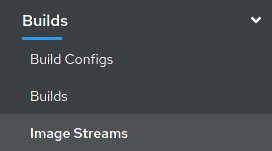
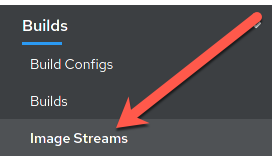
fixes as suggested by workshop testers (you know who you are!)

diff --git a/content/workshops/openshift_4_101/lab4-devmanage.md b/content/workshops/openshift_4_101/lab4-devmanage.md
@@ -24,7 +24,7 @@ $ oc expose service dc-metro-map
 ```
 
 ## See the app in action and inspect some details
-There is no more ambiguity or confusion about where the app came from.  OpenShift provides traceability for your running deployment back to the docker image and the registry it came from, as well as (for images built by OpenShift) back to the exact source code branch and commit.  Let's take a look at that.
+Unlike in previous versions of OpenShift, there is no more ambiguity or confusion about where the app came from.  OpenShift provides traceability for your running deployment, back to the container image, and the registry that it came from. Additionally, images built by OpenShift are traceable back to the exact [branch](https://help.github.com/en/github/collaborating-with-issues-and-pull-requests/about-branches) and [commit](https://help.github.com/en/github/getting-started-with-github/github-glossary#commit). Let's take a look at that!
 
 {{< panel_group >}}
 {{% panel "CLI Steps" %}}
@@ -37,7 +37,7 @@ There is no more ambiguity or confusion about where the app came from.  OpenShif
 $ oc status
 ```
 
-This is going to show the status of your current project.  In this case it will show the dc-metro-map service (svc) with a nested deployment config (dc) along with some more info that you can ignore for now.  
+This is going to show the status of your current project.  In this case it will show the dc-metro-map service (svc) with a nested deployment config(also called a "DC") along with some more info that you can ignore for now.  
 
 <blockquote>
 <i class="fa fa-info-circle"></i>  A deployment in OpenShift is a replication controller based on a user defined template called a deployment configuration <br/>
@@ -50,14 +50,21 @@ The dc provides us details we care about to see where our application image come
 </blockquote>
 
 ```bash
-$ oc describe deployment/dc-metro-map
+$ oc describe deploymentconfig/dc-metro-map
 ```
 
 Notice under the template section it lists the containers it wants to deploy along with the path to the container image.
 
 <blockquote>
-<i class="fa fa-info-circle"></i> There are a few other ways you could get to this information.  If you are feeling adventurous, you might want to describe the replication controller (oc describe rc -l app=dc-metro-map), the image stream (oc describe is -l app=dc-metro-map) or the running pod itself (oc describe pod -l app=dc-metro-map).
+<i class="fa fa-info-circle"></i> There are a few other ways you could get to this information.  If you are feeling adventurous, you might also want to try to:
 </blockquote>
+
+- describe the replication controller
+    - ```oc describe rc -l app=dc-metro-map```
+- describe the image stream
+    - ```oc describe is -l app=dc-metro-map```
+- describe the running pods
+    - ```oc describe pod```
 
 Because we built this app using S2I, we get to see the details about the build - including the container image that was used for building the source code.  So let's find out where the image came from.  Here are the steps to get more information about the build configuration (bc) and the builds themselves.
 
@@ -78,7 +85,9 @@ Notice the information about the configuration of how this app gets built.  In p
 $ oc describe build/dc-metro-map-1
 ```
 
-This shows us even more about the deployed container's build and source code including exact commit GUID for this build.  We can also can see the commit's author, and the commit message.  You can inspect the code by opening a web browser and pointing it to: https://github.com/RedHatGov/openshift-workshops/commit/[COMMIT_GUID]
+This shows us even more about the deployed container's build and source code, including exact commit information, for this build.  We can also see the commit's author, and the commit message.  You can inspect the code by opening a web browser and pointing it to a specific commit, like this:
+
+https://github.com/RedHatGov/redhatgov.github.io/commit/2d5078cc5bbdf3cf63c5ab15e1628f30b3c89954
 
 {{% /panel %}}
 
@@ -90,12 +99,12 @@ Change modes to "Administrator", and then click on "Workloads", and "Deployment 
 <img src="../images/ocp-lab-devman-dc.png" width="500"><br/>
 
 <blockquote>
-Click on "dc-metro-map", under "Name", and check out the details within the deployment (above and to the right of the Pods circle). 
+Click on "dc-metro-map", under "Name", and check out the details of the deployment
 </blockquote>
 <img src="../images/ocp-lab-devman-deployment-shortcut.png" width="700"><br/>
 
 <blockquote>
-Within the deployment for the dc-metro-map is a container summary that shows both the GUID for the image and the GUID for the git branch.
+Within the deployment for the dc-metro-map is a container summary that shows the detailed registry, container reference, and hash information, for the container that was deployed.
 </blockquote>
 <img src="../images/ocp-lab-devman-imageGuid.png" width="600"><br/>
 
@@ -117,6 +126,7 @@ You should see something like what is shown, below.
 <blockquote>
 Click "Builds" and then "Builds", in the left-side menu, to get back to the build summary
 </blockquote>
+<img src="../images/ocp-builds-builds.png" width="300"><br/>
 
 <blockquote>
 Click "dc-metro-map-1" to see the build details
@@ -126,7 +136,7 @@ Click "dc-metro-map-1" to see the build details
 <blockquote>
 Because we built this app using S2I, we get to see the details about the build - including the container image that was used for building the source code.  Note that you can kick-off a rebuild here if something went wrong with the initial build and you'd like to attempt it again.<br/>
 <br/>
-Notice that, in the "Git Commit" section, you can see the comment from the last commit when the build was started.  And you can see the that commit's author.  You can click that commit GUID to be taken to the exact version of the source code that is in this deployed application.
+Notice that, in the "Git Commit" section, you can see the comment from the last commit when the build was started, and you can see the that commit's author.
 </blockquote>
 <img src="../images/ocp-lab-devman-commitmsg.png" width="400"><br/>
 
@@ -202,27 +212,27 @@ Whether it's a database name or a configuration variable, most applications make
 {{< panel_group >}}
 {{% panel "CLI Steps" %}}
 
-Let's have a little fun.  The app has some easter eggs that get triggered when certain env vars are set to 'true'.
+Let's have a little fun.  The app has some easter eggs that get triggered when certain environment variables are set to 'true'.
 <blockquote>
 <i class="fa fa-terminal"></i> Goto the terminal and type the following:
 </blockquote>
 
 ```bash
-$ oc set env deployment/dc-metro-map -e BEERME=true
+$ oc set env deploymentconfig/dc-metro-map -e BEERME=true
 ```
 
 ```bash
 $ oc get pods -w
 ```
 
-Due to the deployment config strategy being set to "Rolling" and the "ConfigChange" trigger being set, OpenShift auto deployed a new pod as soon as you updated with the env variable.  If you were quick enough you saw this happening with the get pods command
+Due to the deployment config strategy being set to "Rolling" and the "ConfigChange" trigger being set, OpenShift auto deployed a new pod as soon as you updated the environment variable.  If you were quick enough, you might have seen this happening, with the "oc get pods -w" command
 
 <blockquote>
 <i class="fa fa-terminal"></i> Type Ctrl+C to stop watching the pods
 </blockquote>
 
 <blockquote>
-<i class="fa fa-info-circle"></i> You can set env variables across all deployment configs with 'dc --all' instead of specifying a specifc config
+<i class="fa fa-info-circle"></i> You can set environment variables, across all deployment configurations, with 'dc --all', instead of specifying a specific DC.
 </blockquote>
 
 {{% /panel %}}
@@ -237,7 +247,6 @@ This is going to show basic details for all build configurations in this project
 <blockquote>
 Click the "dc-metro-map" build config.
 </blockquote>
-There are a lot of details here, feel free to check them out and ask questions, but we are here to set some new environment variables.  
 
 <blockquote>
 Click the "Environment" tab next to the "Builds" tab .
@@ -260,7 +269,7 @@ Click "Save".  Next, kick off a new build, by selecting "Start Build", from the 
 <blockquote>
 Click "Workloads", and then "Pods", from the left-side menu.
 <br/>
-If you are quick enough, you will see a new pod spin up and an the old pod spin down.  This is due to the deployment config strategy being set to "Rolling" and having a "ConfigChange" trigger, OpenShift auto deployed a new pod as soon as you updated with the env variable.
+If you are quick enough, you will see a new pod spin up, and the old pod spin down.  This is due to the deployment config strategy being set to "Rolling", and having a "ConfigChange" trigger. Thus, OpenShift auto deployed a new pod as soon as you updated with the environment variable.
 </blockquote>
 <img src="../images/ocp-lab-devman-BuildRunning.png" width="600">
 
@@ -277,7 +286,7 @@ Environment variables are great, but sometimes we don't want sensitive data expo
 
 
 ## Getting into a pod
-There are situations when you might want to jump into a running pod, and OpenShift lets you do that pretty easily.  We set some environment variables and secrets in this lab, let's jump onto our pod to inspect them.  
+There are situations when you might want to jump into a running pod, and OpenShift lets you do that pretty easily.  We set some environment variables, in this lab, so let's jump onto our pod to inspect them.  
 
 {{< panel_group >}}
 {{% panel "CLI Steps" %}}
@@ -324,12 +333,17 @@ Click the pod that starts with "dc-metro-map-" and has a status of Running
 Click the "Terminal" button
 </blockquote>
 <img src="../images/ocp-lab-devman-terminal.png" width="600"><br/>
-Let's look for the environment variables we set:
+
+## Let's look for the environment variables we set
 
 <blockquote>
-Inside the web page's terminal type: 'env | grep BEER'
+Inside the web page's terminal type this:
 </blockquote>
-That should return the **BEERME=true** matching the value that we set in the deployment config.
+```bash
+$ env | grep BEER
+```
+
+That should return **BEERME=true**, matching the value that we set in the deployment config.
 
 {{% /panel %}}
 {{< /panel_group >}}
@@ -345,7 +359,7 @@ $ oc delete secrets dc-metro-map-generic-webhook-secret dc-metro-map-github-webh
 # Summary
 In this lab you've seen how to trace running software back to its roots, how to see details on the pods running your software, how to update deployment configurations, how to inspect logs files, how to set environment variables consistently across your environment, and how to interactively attach to running containers.  All these things should come in handy for any developer working in an OpenShift platform.
 
-To dig deeper in to details behind the steps you performed in this lab, check out the OpenShift [developer's guide][1].
+To dig deeper into the details behind the steps you performed in this lab, check out the OpenShift [developer's guide][1].
 
 [1]: https://docs.openshift.com/container-platform/3.4/dev_guide/index.html
 

diff --git a/content/workshops/openshift_4_101/lab1-welcome.md b/content/workshops/openshift_4_101/lab1-welcome.md
@@ -13,6 +13,7 @@ We will be using the following terms throughout the workshop labs so here are so
 
 * Container - Your software wrapped in a complete filesystem containing everything it needs to run
 * Image - We are talking about docker images; read-only and used to create containers
+* Image Stream - An image stream comprises one or more Docker images identified by tags. 
 * Pod - One or more docker containers that run together
 * Service - Provides a common DNS name to access a pod (or replicated set of pods)
 * Project - A project is a group of services that are related logically
@@ -24,7 +25,7 @@ We will be using the following terms throughout the workshop labs so here are so
 * Node - Where the compute happens, your software is run on nodes
 
 # Accessing OpenShift
-Additionally, you can utilize a command line tool to perfrom tasks.
+Additionally, you can utilize a command line tool to perforrm tasks.
 
 ## Let's try the command line (CLI)
 > <i class="fa fa-terminal"></i> Use your existing Butterfly terminal, and login, using the same URI with following command:

diff --git a/content/workshops/openshift_4_101/lab2-byocontainer.md b/content/workshops/openshift_4_101/lab2-byocontainer.md
@@ -156,7 +156,7 @@ You should see something similar to this:
 
 ## Test out the nexus webapp
 
-Change the context menu (the menu, in the top left, that contains "Administrator" and "Developer" back to "Developer", and click on the arrow, at the top right of the "nexus" tumbnail, to open the webapp's route.
+Change the context menu (the menu, in the top left, that contains "Administrator" and "Developer" back to "Developer", and click on the arrow, at the top right of the "nexus" thumbnail, to open the webapp's route.
 
 <img src="../images/ocp-nexus-thumbnail.png" width="125"><br/>
 

diff --git a/content/workshops/openshift_4_101/lab3-s2i.md b/content/workshops/openshift_4_101/lab3-s2i.md
@@ -32,6 +32,11 @@ When using the CLI, OpenShift automatically detects the source code type and sel
 {{% panel "Web Console Steps" %}}
 
 <blockquote>
+Switch to developer mode, if you're not already there
+</blockquote>
+<img src="../images/ocp-switch-developer.png" width="500"><br/>
+
+<blockquote>
 Click "+Add"
 </blockquote>
 <img src="../images/ocp-addToProjectButton.png" width="80"><br/>
